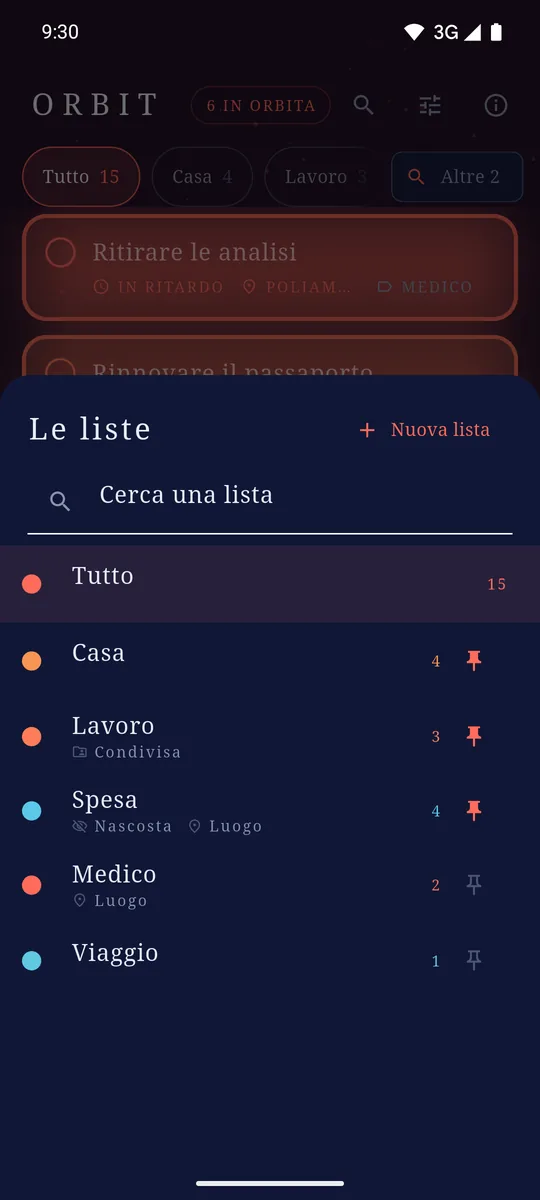
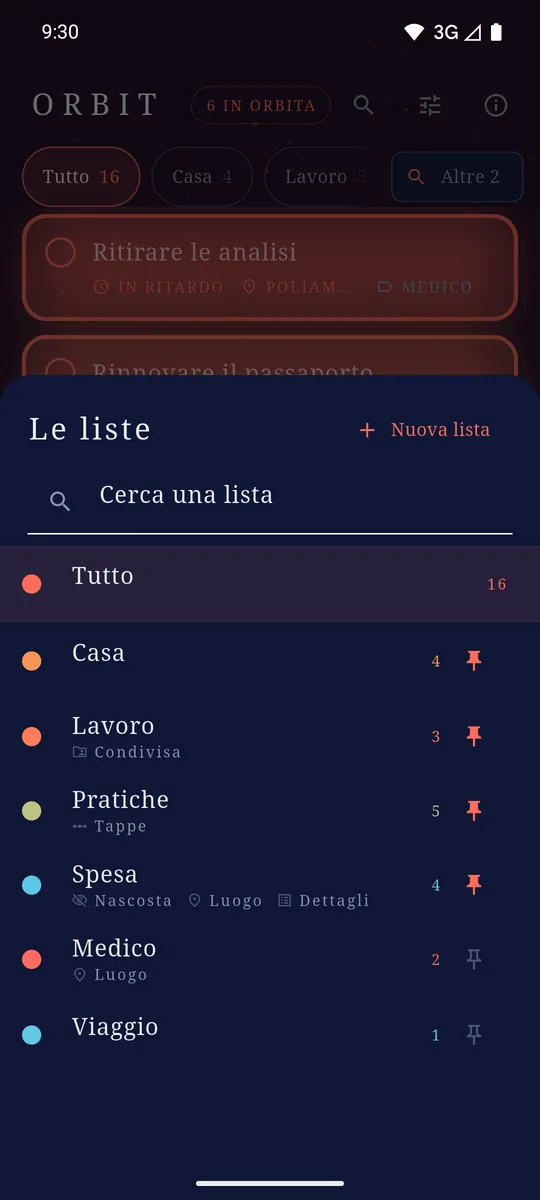
docs: la pagina di Orbit racconta le tappe e le due viste
Due sezioni nuove, con lo stesso peso di quelle dei dettagli e della
ricerca: le cose che non si fanno in un colpo solo — le tappe di una
lista, il tocco che fa avanzare, l'anello che si riempie — e le due
viste, la lista e l'orbita, con il numero in alto che porta dall'una
all'altra.

L'occhiello dice ora anche la seconda metà dell'app: le cose fatte che
escono dalla lista, le liste tenute da parte che continuano ad
avvisare, le tappe. Tre schermate in più, rifatte da un build di
rilascio.

diff --git a/mcma-orbit/index.html b/mcma-orbit/index.html
@@ -25,6 +25,12 @@
   cambia con lei. Non c'è niente da ordinare a mano: in cima c'è quello che
   preme di più.</p>
 
+  <p class="lede">Quello che spunti sparisce dalla lista invece di accumularsi
+  sotto. Quello che non vuoi vedere adesso — la spesa, mentre lavori — si tiene
+  da parte senza smettere di avvisarti. E per le cose che non si fanno in un
+  colpo solo, una lista può avere le sue <strong>tappe</strong>: da cercare,
+  trovato, ce l'ho, caricato.</p>
+
   <ul class="shots">
     <li><figure>
       <img src="assets/shot-1.webp" loading="lazy" alt="La lista di Orbit: le voci più urgenti in cima, colorate di rosso e ambra.">
@@ -35,8 +41,16 @@
       <figcaption>Tocca il numero in alto e resta solo quello che sta arrivando, da tutte le liste.</figcaption>
     </figure></li>
     <li><figure>
-      <img src="assets/shot-9.webp" loading="lazy" alt="Il foglio di una lista, con la riga che la nasconde da «Tutto».">
-      <figcaption>Una lista può stare fuori da «Tutto» — la spesa, mentre lavori — e restare a un tocco.</figcaption>
+      <img src="assets/shot-10.webp" loading="lazy" alt="La lista «Pratiche»: ogni voce porta la sua tappa, e l'anello attorno alla spunta è pieno a un quarto, a metà, a tre quarti.">
+      <figcaption>Fra «da fare» e «fatto», le tappe di una lista. L'anello dice a che punto sei.</figcaption>
+    </figure></li>
+    <li><figure>
+      <img src="assets/shot-11.webp" loading="lazy" alt="Il foglio che definisce le tappe di una lista, con quante cose stanno su ciascuna.">
+      <figcaption>Le tappe le scrivi tu, in ordine. Il tocco sulla spunta fa avanzare di una.</figcaption>
+    </figure></li>
+    <li><figure>
+      <img src="assets/shot-9.webp" loading="lazy" alt="Il foglio di una lista, con la riga delle tappe e quella che la nasconde da «Tutto».">
+      <figcaption>Quello che una lista decide per tutto ciò che contiene — tappe comprese.</figcaption>
     </figure></li>
     <li><figure>
       <img src="assets/shot-6.webp" loading="lazy" alt="Il foglio dei dettagli di una voce: un codice di ritiro, un collegamento ai referti, e sotto un numero di telefono che arriva dalla lista.">
@@ -80,6 +94,12 @@
     invece di venti.</li>
     <li><strong>Dettagli.</strong> Una voce può portarsi dietro un collegamento,
     un numero di telefono, un'e-mail, un codice. Un tocco apre, chiama, copia.</li>
+    <li><strong>Tappe, per le liste che ne hanno bisogno.</strong> Fra «da fare» e
+    «fatto» una lista può mettere le sue fasi, in ordine: <em>da cercare,
+    trovato, ce l'ho, caricato</em>. Il tocco sulla spunta fa avanzare di una e
+    l'ultima chiude, quindi il gesto resta uno solo. Una striscia filtra per
+    tappa. Rinominarne una non tocca niente, e cancellarne una non sposta di
+    nascosto quello che c'era dentro.</li>
     <li><strong>Due viste, un tocco per passare.</strong> La lista è dove sono
     archiviate le cose; l'orbita è cosa sta arrivando. Il numero in alto è il
     passaggio fra le due.</li>
@@ -111,6 +131,35 @@
   <p>Anche le liste hanno i loro, prestati a tutto quello che contengono:
   «Spesa» sa il telefono del negozio una volta invece di venti. Vale la stessa
   regola della scadenza — quello che scrivi sulla singola voce vince.</p>
+
+  <h2>Le cose che non si fanno in un colpo solo</h2>
+  <p>Certe cose non sono «da fare» o «fatte»: sono a metà. Il certificato lo devi
+  prima <em>trovare</em>, poi <em>ritirare</em>, poi <em>caricare</em> — e finché
+  non è caricato non è fatto, ma non è nemmeno più da cercare. Una lista può
+  quindi avere le sue <strong>tappe</strong>, scritte da te e in ordine, e
+  tutto quello che c'è dentro sta su una di quelle.</p>
+  <p>Il gesto resta uno: il tocco sulla spunta <strong>fa avanzare di una
+  tappa</strong>, e l'ultima chiude la cosa. L'anello attorno alla spunta si
+  riempie man mano, così a che punto sei si legge di sfuggita, senza aprire
+  niente. Una striscia di linguette filtra per tappa — «fammi vedere tutto
+  quello che è ancora da ritirare» — e le liste che di tappe non ne hanno
+  restano esattamente come sono: una cosa è da fare, o è fatta.</p>
+  <p>Le tappe si possono rinominare senza toccare niente di quello che c'è
+  dentro, e riordinare senza spostare nessuno: ogni voce si ricorda <em>quale</em>
+  tappa, non la posizione. Se una tappa la cancelli, il foglio ti dice prima
+  quante cose ci stanno sopra.</p>
+
+  <h2>Due viste, un tocco per passare</h2>
+  <p>Una lista è <em>dove sono archiviate le cose</em>; l'orbita è <em>cosa sta
+  arrivando</em>. Sono due domande diverse e ora hanno due risposte diverse: il
+  numero in alto — «6 in orbita» — si tocca, e restano solo le voci che si
+  stanno avvicinando, attraverso tutte le liste, comprese quelle che hai messo
+  da parte. Un altro tocco, o una linguetta, e torni alla lista.</p>
+  <p>Perché è lì che una lista messa da parte torna a farsi sentire: nasconderla
+  è una scelta su <strong>cosa leggere</strong>, mai su cosa sapere. Quello che
+  ci sta dentro continua a contare nel cielo, nel numero in alto e nei
+  promemoria — una lista che smettesse di avvisare sarebbe una lista cancellata
+  con un altro nome.</p>
 
   <h2>E quando non ti ricordi dove l'avevi messa</h2>
   <p>La lista si ordina da sola per urgenza: perfetto la mattina, inutile quando

diff --git a/mcma-orbit/en/index.html b/mcma-orbit/en/index.html
@@ -24,6 +24,12 @@
   the place gets closer. The sky behind the list moves with it. There is nothing
   to sort by hand — what presses hardest is at the top.</p>
 
+  <p class="lede">What you tick leaves the list instead of piling up underneath
+  it. What you do not want to look at right now — the shopping, while you work —
+  is kept aside without ever going quiet. And for the things that do not happen
+  in one go, a list can have its own <strong>stages</strong>: to find, found,
+  got it, uploaded.</p>
+
   <ul class="shots">
     <li><figure>
       <img src="../assets/shot-1.webp" loading="lazy" alt="Orbit's list, the most urgent entries at the top in red and amber.">
@@ -34,8 +40,16 @@
       <figcaption>Tap the count in the header and only what is coming stays, across every list.</figcaption>
     </figure></li>
     <li><figure>
-      <img src="../assets/shot-9.webp" loading="lazy" alt="A list's sheet, with the row that hides it from &quot;Everything&quot;.">
-      <figcaption>A list can stay out of "Everything" — the shopping, while you work — and still be one tap away.</figcaption>
+      <img src="../assets/shot-10.webp" loading="lazy" alt="The &quot;Pratiche&quot; list: every entry carries its stage, and the ring around the tick is a quarter, a half, three quarters full.">
+      <figcaption>Between "to do" and "done", a list's stages. The ring says how far along you are.</figcaption>
+    </figure></li>
+    <li><figure>
+      <img src="../assets/shot-11.webp" loading="lazy" alt="The sheet that defines a list's stages, with how many things stand on each one.">
+      <figcaption>The stages are yours, in order. A tap on the ring moves one along.</figcaption>
+    </figure></li>
+    <li><figure>
+      <img src="../assets/shot-9.webp" loading="lazy" alt="A list's sheet, with the stages row and the one that hides it from &quot;Everything&quot;.">
+      <figcaption>What a list decides for everything inside it — stages included.</figcaption>
     </figure></li>
     <li><figure>
       <img src="../assets/shot-6.webp" loading="lazy" alt="An entry's details sheet: a collection code, a link to the results, and below them a phone number coming from the list.">
@@ -78,6 +92,12 @@
     supermarket is once instead of twenty times.</li>
     <li><strong>Details.</strong> An entry can carry a link, a phone number, an
     e-mail address, a code. One tap opens, dials, copies.</li>
+    <li><strong>Stages, for the lists that need them.</strong> Between "to do"
+    and "done" a list can put its own phases, in order: <em>to find, found,
+    got it, uploaded</em>. A tap on the ring moves one along and the last one
+    closes it, so the gesture stays a single one. A strip filters by stage.
+    Renaming one touches nothing, and deleting one does not quietly move what
+    was on it.</li>
     <li><strong>Two views, one tap apart.</strong> The list is where things are
     filed; the orbit is what is coming. The count in the header is the way
     between them.</li>
@@ -110,6 +130,34 @@
   <p>Lists have their own too, lent to everything inside them: "Shopping" knows
   the shop's phone number once instead of twenty times. The rule is the one the
   deadline already follows — what you write on the single entry wins.</p>
+
+  <h2>The things that do not happen in one go</h2>
+  <p>Some things are not "to do" or "done": they are half way. The certificate
+  has to be <em>found</em> first, then <em>collected</em>, then
+  <em>uploaded</em> — and until it is uploaded it is not done, but it is not to
+  be found any more either. So a list can have its own <strong>stages</strong>,
+  written by you and in order, and everything inside it stands on one of them.</p>
+  <p>The gesture stays a single one: a tap on the ring <strong>moves a thing one
+  stage along</strong>, and the last stage closes it. The ring around the tick
+  fills up as it goes, so how far along something is reads at a glance, without
+  opening anything. A strip of chips filters by stage — "show me everything
+  still waiting to be collected" — and the lists that have no stages stay exactly
+  as they were: a thing is either to do, or done.</p>
+  <p>Stages can be renamed without touching anything inside the list, and
+  reordered without moving anybody: every entry remembers <em>which</em> stage,
+  not the position. If you delete a stage, the sheet tells you first how many
+  things are standing on it.</p>
+
+  <h2>Two views, one tap apart</h2>
+  <p>A list is <em>where things are filed</em>; the orbit is <em>what is
+  coming</em>. Those are two different questions and now they have two different
+  answers: the count in the header — "6 in orbit" — is a button, and tapping it
+  leaves only the entries coming closer, across every list, the ones you have
+  set aside included. Another tap, or a tab, and you are back in the list.</p>
+  <p>Which is where a list you set aside speaks up again: hiding it is a choice
+  about <strong>what to read</strong>, never about what to know. What is inside
+  still counts towards the sky, the count in the header and the reminders — a
+  list that stopped warning you would be a list deleted under another name.</p>
 
   <h2>And when you cannot remember where you put it</h2>
   <p>The list sorts itself by urgency: perfect in the morning, useless when what
